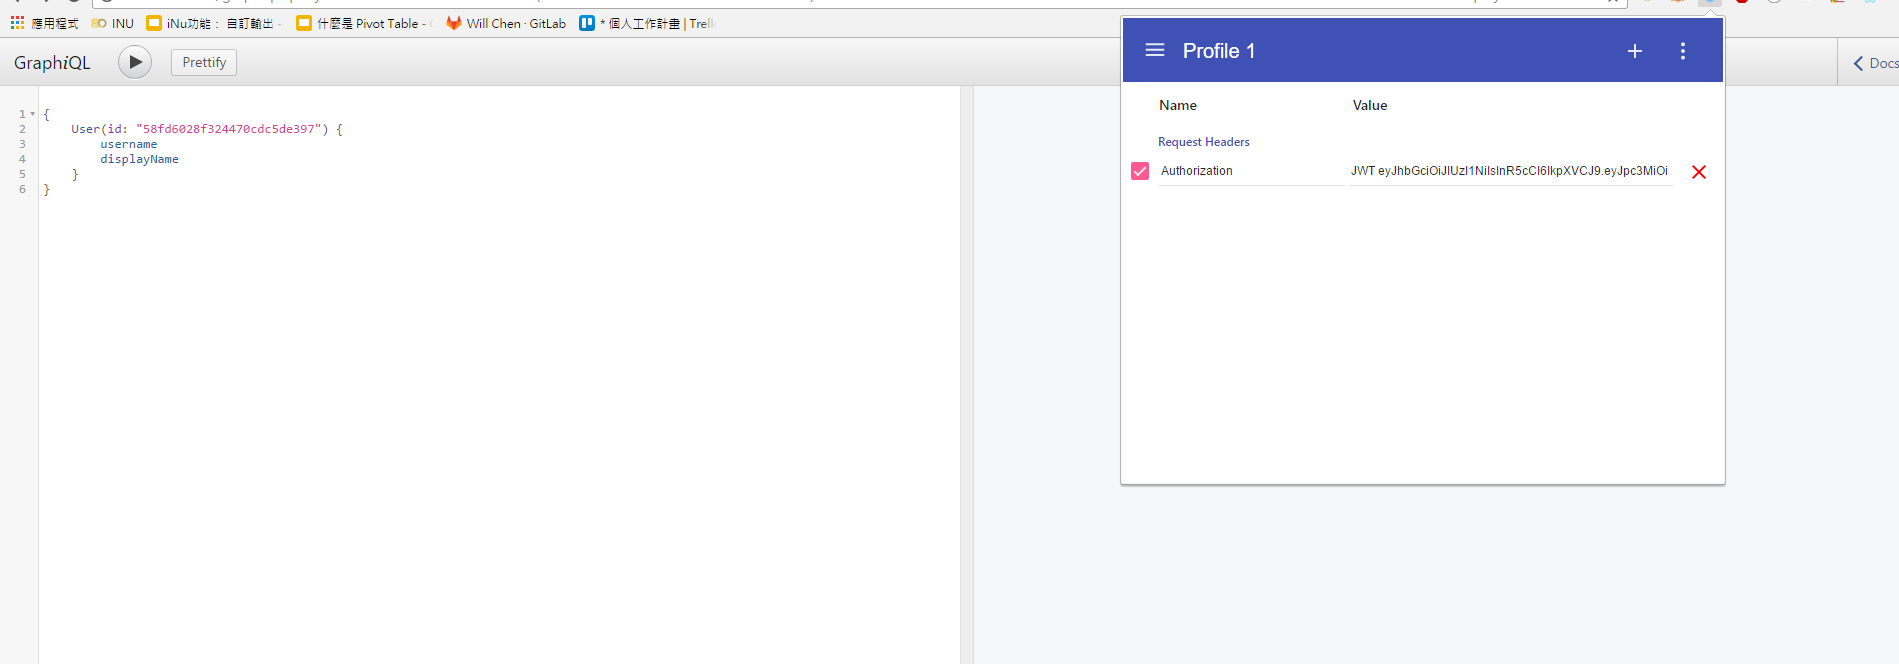
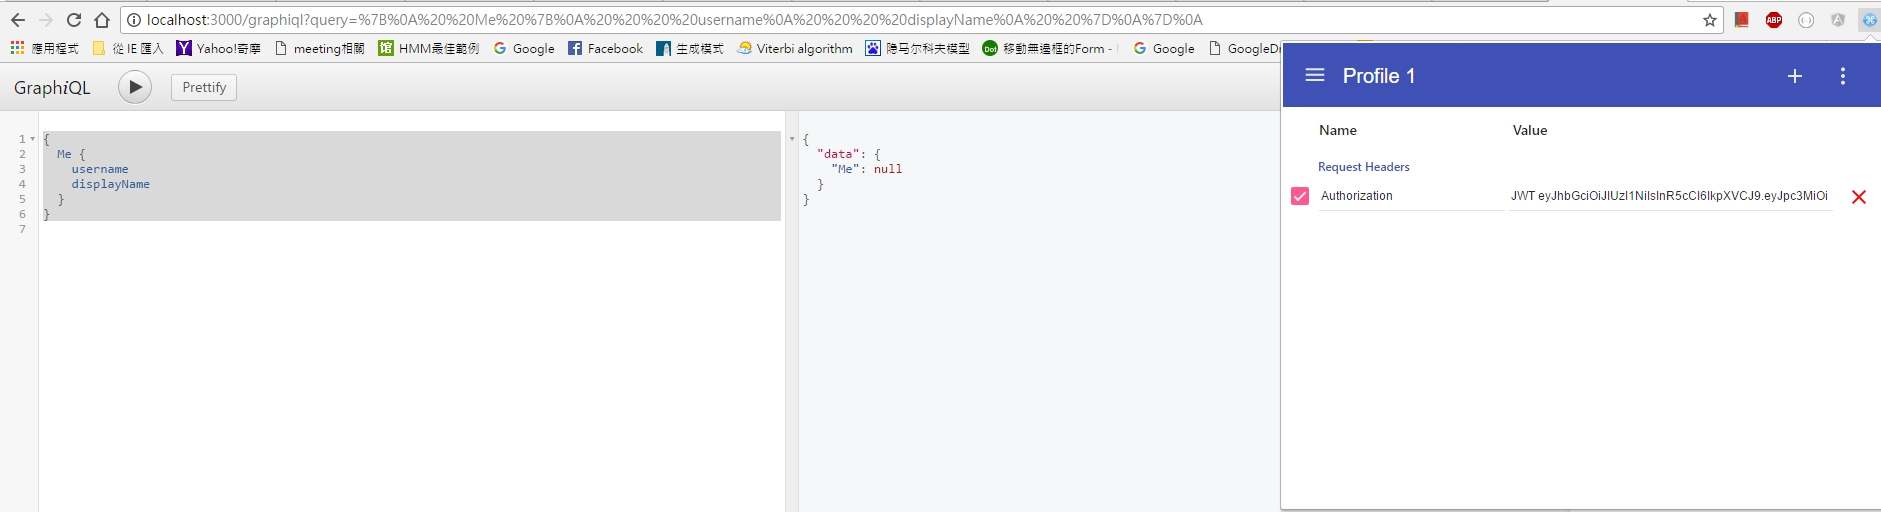
feat(server): current user

diff --git a/server/src/data/user/queries.js b/server/src/data/user/queries.js
@@ -1,24 +1,43 @@
 import {
-    GraphQLID,
-    GraphQLNonNull
+   GraphQLID,
+   GraphQLNonNull
 } from 'graphql';
-import {UserType, UserModel} from './models';
+import { UserType, UserModel } from './models';
+
+const Me = {
+   type: UserType,
+   description: 'Represent the type of a authorized user',
+   args: {
+
+   },
+   resolve(root, params) {
+      console.log(root);
+      return UserModel
+         .findById(params.id)
+         .exec();  // return JSON
+   }
+};
 
 const User = {
-    type: UserType,
-    args: {
-        id: {
-            name: 'id',
-            type: new GraphQLNonNull(GraphQLID)
-        }
-    },
-    resolve (root, params) {
-        return UserModel
-            .findById(params.id)
-            .exec();  // return JSON
-    }
+   type: UserType,
+   description: 'Represent the type of a user by id',
+   args: {
+      id: {
+         name: 'id',
+         type: new GraphQLNonNull(GraphQLID)
+      }
+   },
+   resolve(root, params) {
+      return UserModel
+         .findById(params.id)
+         .exec();  // return JSON
+   }
 };
 
-export default {
-    User
+const queries = {
+   User,
+   Me
 };
+
+
+export default queries;

diff --git a/server/src/data/schema.js b/server/src/data/schema.js
@@ -3,14 +3,14 @@ import {
     GraphQLSchema
 } from 'graphql';
 // import queries and mutations from user folder
-import UserQueries from './user/queries';
+import queries from './user/queries';
 // import UserMutations from './user/mutations';
 // creating GraphQL schema with parameters
 // each parameter can only take one GraphQLObjectType
 export default new GraphQLSchema({
     query: new GraphQLObjectType({
         name: 'Query',      // arbitrary name for library API
-        fields: UserQueries // connect fields from queries.js
+        fields: queries // connect fields from queries.js
     }),
     // mutation: new GraphQLObjectType({
     //     name: 'Mutation',

diff --git a/server/README.md b/server/README.md
@@ -41,3 +41,13 @@ Use rest api to create account and get json web token by login.
     }
 }
 ```
+
+### Query current user
+```graphql
+{
+    Me {
+        username
+        displayName
+    }
+}
+```
